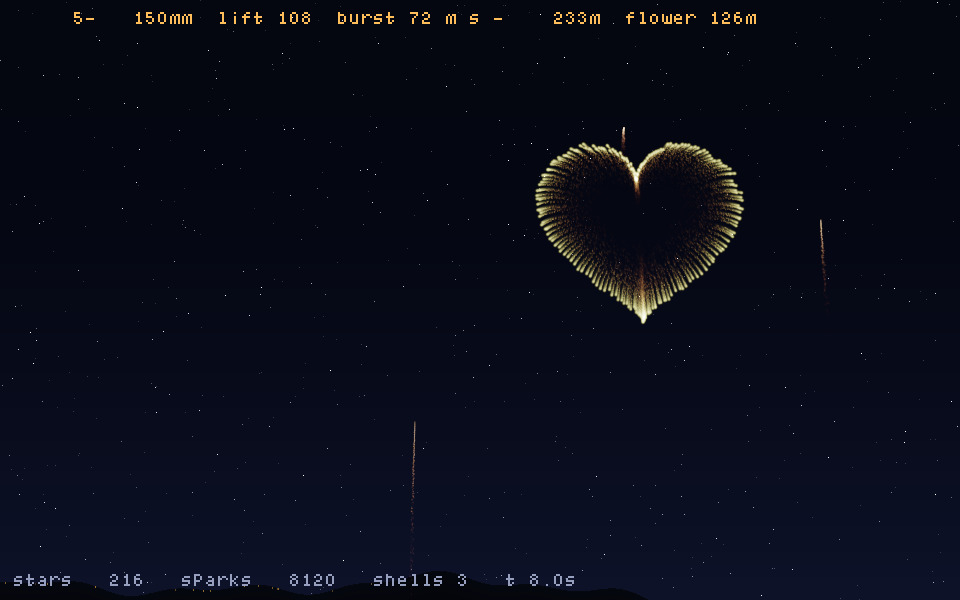
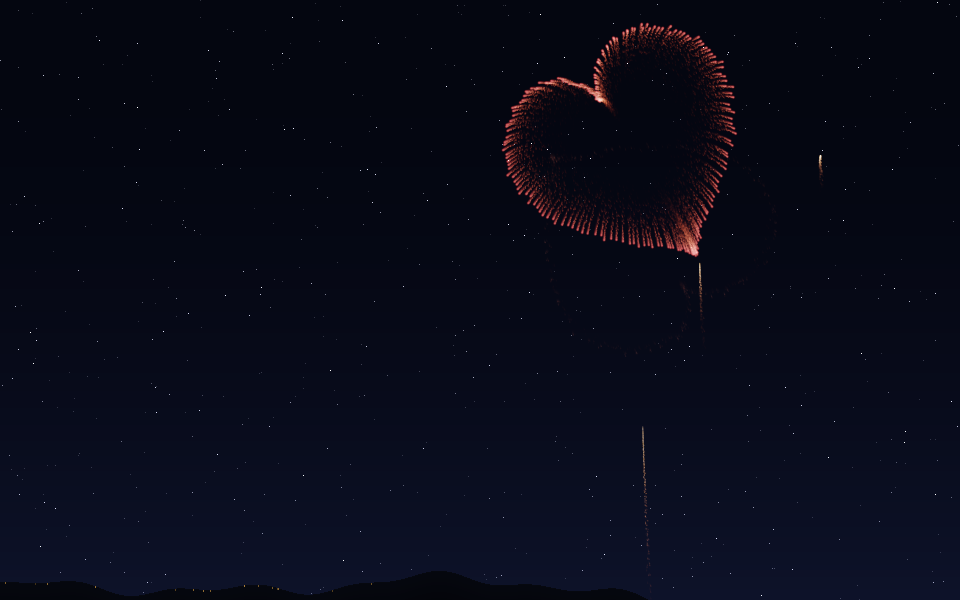
型物が常に正面を向く問題を修正
型物は玉の中で向きが固定されている一方、玉自体は飛びながら回っているので、
実物も開く向きは制御しきれない。いつも観客向きなのは嘘だった。

- 星を並べる平面の基底 e1/e2/en を玉ごとに作り、ロドリゲスの回転公式で傾ける
- 面内の回転(絵の傾き)はランダム、そこからランダムな軸まわりに 10〜48度
- 真横を向くと線にしか見えないので傾きには上限を置いた
- 同じハートでも正面に近いもの、斜めに寝たもの、潰れたものが混ざるようになった

diff --git a/src/hanabi_os.cpp b/src/hanabi_os.cpp
@@ -433,6 +433,34 @@ static void burst(Shell& sh) {
     int layers = 1 + ((sh.type == T_YANAGI || sh.type == T_HACHI || sh.type == T_UZU
                        || sh.type == T_KAMURO || is_shaped(sh.type)) ? 0 : sh.layers);
     bool crackle = (rnd() < 0.20);          // 消え際に分砲(パチパチ)する玉か
+
+    // 型物を並べる平面の向き。玉は飛びながら回っているので、開く向きは制御しきれない。
+    // 観客向き(e1=X, e2=Y)を基準に、玉ごとにランダムな軸まわりにランダムな角度だけ傾ける。
+    // (真横を向くと線にしか見えないので、傾きは最大60度までにとどめてある)
+    double e1x = 1, e1y = 0, e1z = 0, e2x = 0, e2y = 1, e2z = 0, enx = 0, eny = 0, enz = 1;
+    if (is_shaped(sh.type)) {
+        double roll = rnd() * 6.2831853;                    // 面内の回転(絵の傾き)
+        double cr = cos(roll), sr = sin(roll);
+        e1x = cr;  e1y = sr; e1z = 0;
+        e2x = -sr; e2y = cr; e2z = 0;
+        // 傾ける軸(面内のどこか)と傾き角
+        double al = rnd() * 6.2831853, ph = (10.0 + 38.0 * rnd()) * M_PI / 180.0;
+        double kx = cos(al), ky = sin(al), kz = 0.0;        // 回転軸(単位ベクトル)
+        double cp = cos(ph), sp2 = sin(ph);
+        // ロドリゲスの回転公式で 3 本まとめて回す
+        auto rot = [&](double& vx, double& vy, double& vz) {
+            double dotk = kx * vx + ky * vy + kz * vz;
+            double crx = ky * vz - kz * vy, cry = kz * vx - kx * vz, crz = kx * vy - ky * vx;
+            double nx = vx * cp + crx * sp2 + kx * dotk * (1 - cp);
+            double ny = vy * cp + cry * sp2 + ky * dotk * (1 - cp);
+            double nz = vz * cp + crz * sp2 + kz * dotk * (1 - cp);
+            vx = nx; vy = ny; vz = nz;
+        };
+        rot(e1x, e1y, e1z); rot(e2x, e2y, e2z);
+        enx = e1y * e2z - e1z * e2y;                        // 面の法線
+        eny = e1z * e2x - e1x * e2z;
+        enz = e1x * e2y - e1y * e2x;
+    }
     // 玉の中の星は同じ組成なので、回る速さ・落ち方・点火の時期はだいたい揃う。
     // ただし玉に詰められたときの向きはバラバラなので、回転軸と回る向きは星ごとにランダム。
     double gomega = 20.0 + 12.0 * rnd();    // [rad/s] 点火直後の自転(3〜5回転/秒)
@@ -473,13 +501,17 @@ static void burst(Shell& sh) {
             double dx, dy, dz, v;
             int ncore = (sh.type == T_SATURN) ? (n * 38) / 100 : 0;   // 土星の芯の星数
             if (is_shaped(sh.type) && i >= ncore) {
-                // 型物 — 観客を向いた平面に形どおり並べ、中心から距離に比例した速度で押し出す。
-                // 形はそのまま相似に拡大していく(外側ほど速いので抗力で少しだけ崩れる = 実物と同じ)
+                // 型物 — 玉の中の平面に形どおり並べ、中心から距離に比例した速度で押し出す。
+                // 形はそのまま相似に拡大していく(外側ほど速いので抗力で少しだけ崩れる = 実物と同じ)。
+                // 平面の向きは玉ごとにランダムに傾けてある(下の e1/e2/en)
                 double px2, py2;
                 shape_point(sh.type, (double)(i - ncore) / (n - ncore), px2, py2);
                 double rad = sqrt(px2 * px2 + py2 * py2);
                 if (rad < 1e-6) rad = 1e-6;
-                dx = px2 / rad; dy = py2 / rad; dz = rnds() * 0.06;   // 板厚のゆらぎ
+                double a = px2 / rad, b = py2 / rad, c = rnds() * 0.06;   // 板厚のゆらぎ
+                dx = e1x * a + e2x * b + enx * c;
+                dy = e1y * a + e2y * b + eny * c;
+                dz = e1z * a + e2z * b + enz * c;
                 v = s.starV * 0.92 * rad * (1.0 + rnds() * 0.012);
             } else if (ncore > 0 && i < ncore) {
                 // 土星の芯 — こちらは3Dの小さな球

diff --git a/resume.md b/resume.md
@@ -76,7 +76,10 @@ T_HACHI, T_UZU, T_SENRIN, T_HEART, T_RING, T_SATURN }`。
    回転を半分にすると輪は4倍になる点に注意）
 - **千輪**=`burst()` で星ではなく `spawn_child()` で子玉 Shell を撒く。`gen` で世代を区別。
   子玉は下向きにも撒かれるので、親用の「落下し始めたら開く」フォールバックを子玉には適用しないこと（`gen==0` 条件）
-- **型物**=`shape_point()` の輪郭に並べ、中心からの距離に比例した速度で押し出す。土星だけ芯を3D球にして銀色に
+- **型物**=`shape_point()` の輪郭に並べ、中心からの距離に比例した速度で押し出す。土星だけ芯を3D球にして銀色に。
+  **平面の向きは玉ごとにランダム**(基底 `e1/e2/en` をロドリゲスで回す)。面内の回転はランダム、
+  傾きは 10〜48度。真横を向くと線になるので上限を置く。
+  （玉の中で型は固定だが玉自体は回りながら飛ぶので、常に正面を向くのは嘘）
 - **錦冠(金冠)**=柳の強化版。初速×0.40・燃焼×2.30(≒10秒)・剥離×2.20。`chg=0.90` `c1=紅` で菊先紅。
   **一番重い玉**。1発あたり火の粉59,000粒(菊は11,000)。ただし `qual` が上限を押さえるので
   100連発でも 6.0ms/フレーム(菊は5.9ms)で、**払うのは速度ではなく密度**(qual 0.23 vs 菊0.52)。
